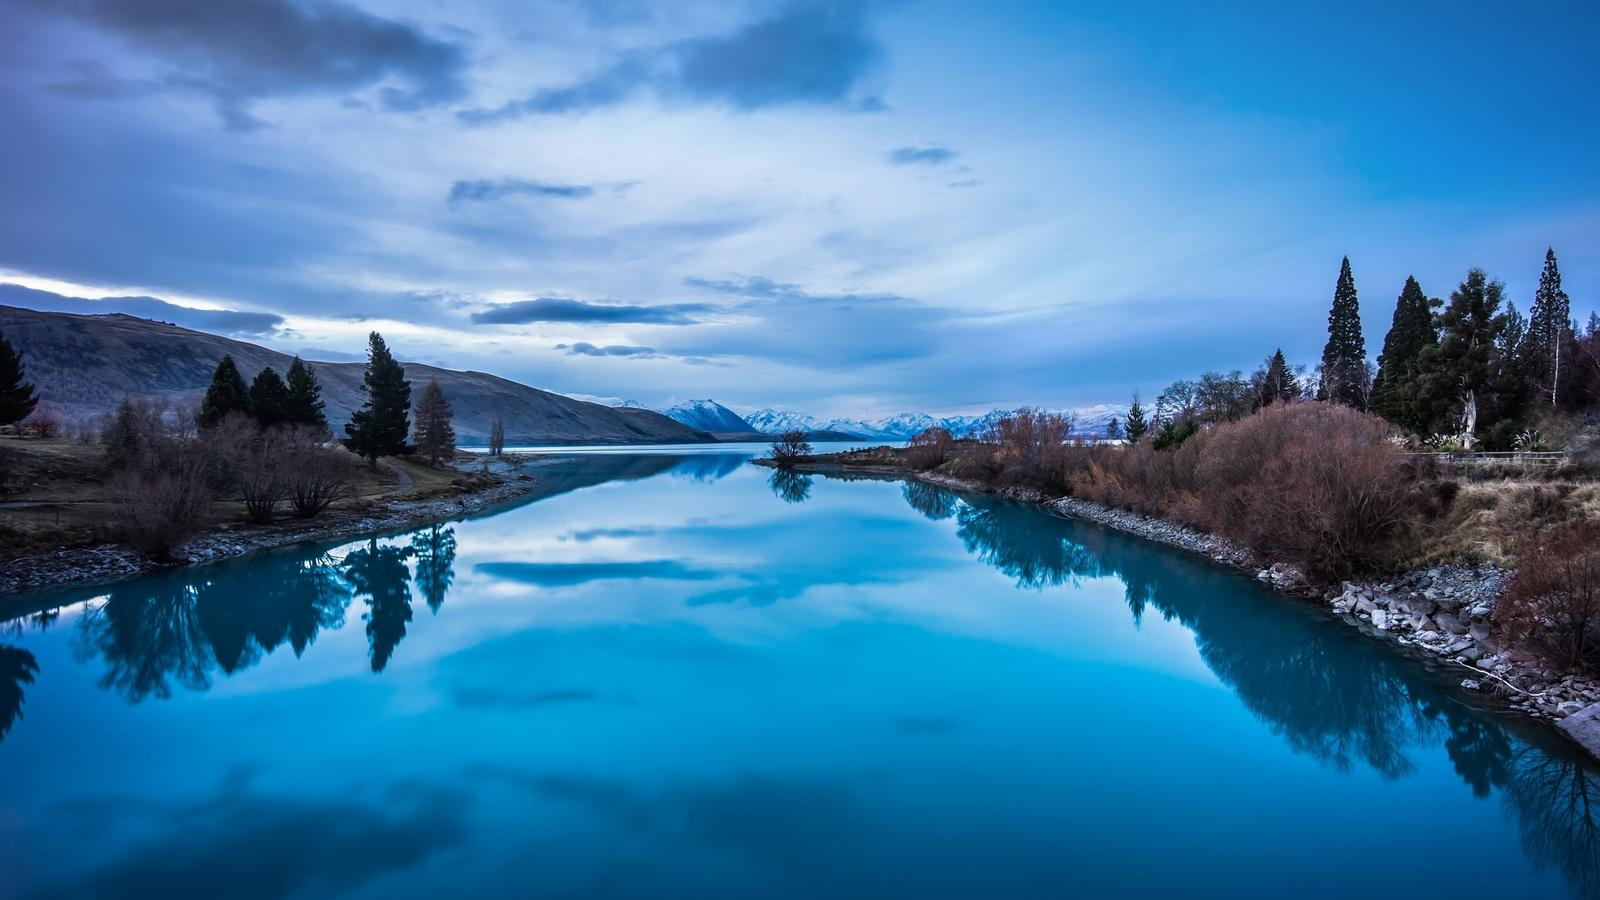
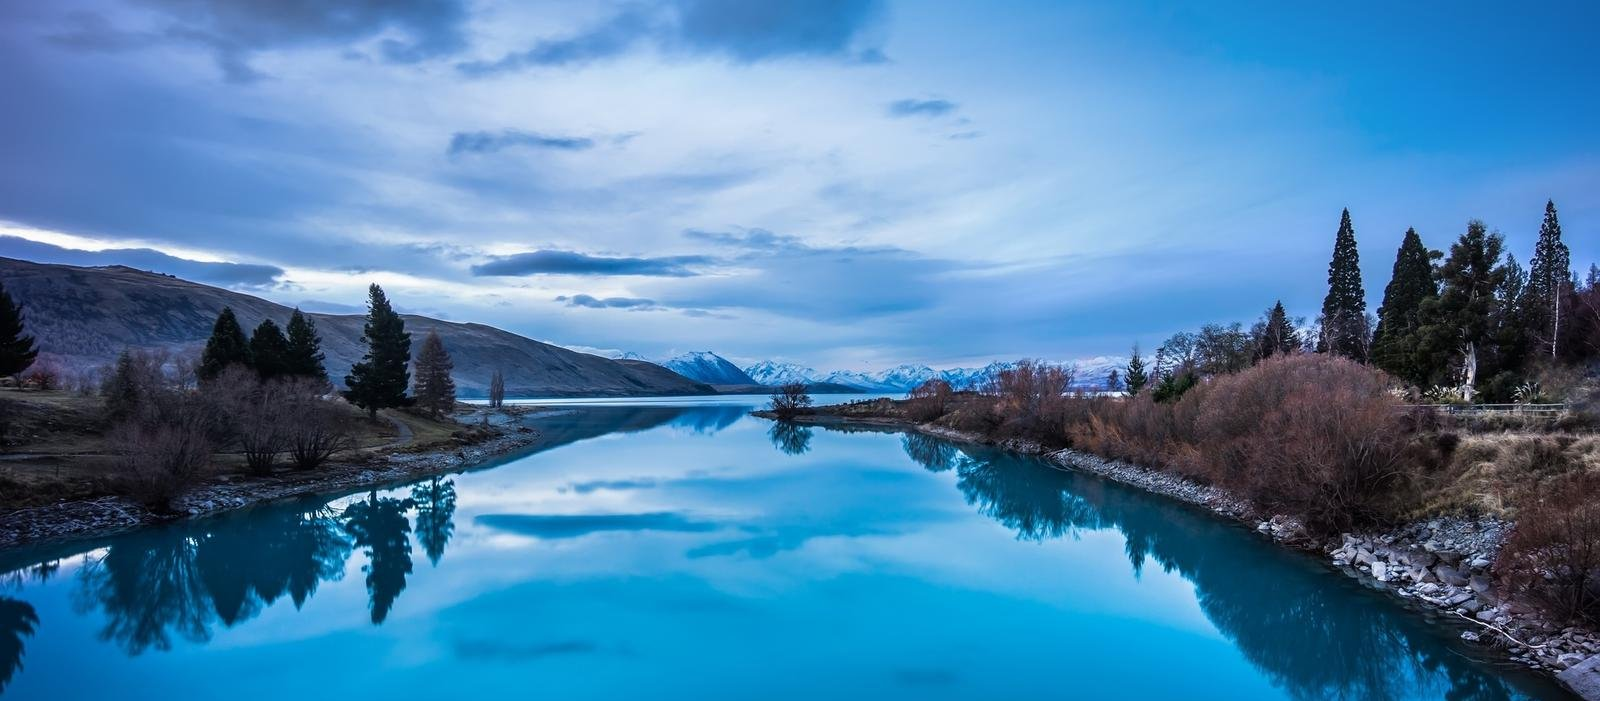
margin correction and crop correction commit

diff --git a/index.html b/index.html
@@ -301,7 +301,7 @@
             </p>
             <button class="btn btn-outline-info">Read More</button>
           </div>
-          <div class="col-lg-3 col-md-6 mt-sm-4">
+          <div class="col-lg-3 col-md-6 mt-sm-4 mt-md-0">
             <i class="p-3 mb-3 fa-2x rounded-circle fa-solid fa-pen"></i>
             <h3 class="text-uppercase pb-2 fw-bold">Web Design</h3>
             <p class="text-muted text-info">
@@ -312,7 +312,7 @@
             </p>
             <button class="btn btn-outline-info">Read More</button>
           </div>
-          <div class="col-lg-3 col-md-6 mt-sm-4">
+          <div class="col-lg-3 col-md-6 mt-sm-4 mt-md-0">
             <i class="p-3 mb-3 fa-2x rounded-circle fa-solid fa-display"></i>
             <h3 class="text-uppercase pb-2 fw-bold">Web Design</h3>
             <p class="text-muted text-success">
@@ -323,7 +323,7 @@
             </p>
             <button class="btn btn-outline-info">Read More</button>
           </div>
-          <div class="col-lg-3 col-md-6 mt-sm-4">
+          <div class="col-lg-3 col-md-6 mt-sm-4 mt-md-0">
             <i class="p-3 mb-3 fa-2x rounded-circle fa-solid fa-car"></i>
             <h3 class="text-uppercase pb-2 fw-bold">Web Design</h3>
             <p class="text-muted text-success">

diff --git a/css/style.scss b/css/style.scss
@@ -35,31 +35,39 @@
 
   .carousel-caption {
     background-color: #9ecdff65;
+    position: absolute;
+    right: 18%;
+    bottom: 1.25rem;
+    left: 18%;
+    padding-bottom: 10px;
+    padding-top: 6px;
+    color: #fff;
+    text-align: center;
     > .h5,
     h5 {
-      font-size: 2.25rem;
+      font-size: 35px;
       font-variant: small-caps;
     }
     > p {
-      font-size: 1.25rem;
+      font-size: 18px;
     }
   }
   .carousel-indicators [data-bs-target] {
-    width: 10px;
-    height: 10px;
+    width: 8px;
+    height: 8px;
     border-radius: 50%;
     margin: 0px 5px;
   }
   .carousel-control-next-icon,
   .carousel-control-prev-icon {
     display: inline-block;
-    width: 3rem;
-    height: 3rem;
+    width: 2rem;
+    height: 2rem;
     background-repeat: no-repeat;
     background-position: 50%;
-    background-size: 70% 100%;
+    background-size: 80% 100%;
     border-radius: 50%;
-    background-color: #9ecdff65;
+    background-color: rgba(158, 205, 255, 0.3960784314);
   }
   .fa-solid,
   .fas {

diff --git a/css/style.css b/css/style.css
@@ -24,29 +24,37 @@
 }
 .container .carousel-caption {
   background-color: rgba(158, 205, 255, 0.3960784314);
+  position: absolute;
+  right: 18%;
+  bottom: 1.25rem;
+  left: 18%;
+  padding-bottom: 10px;
+  padding-top: 6px;
+  color: #fff;
+  text-align: center;
 }
 .container .carousel-caption > .h5,
 .container .carousel-caption h5 {
-  font-size: 2.25rem;
+  font-size: 35px;
   font-variant: small-caps;
 }
 .container .carousel-caption > p {
-  font-size: 1.25rem;
+  font-size: 18px;
 }
 .container .carousel-indicators [data-bs-target] {
-  width: 10px;
-  height: 10px;
+  width: 8px;
+  height: 8px;
   border-radius: 50%;
   margin: 0px 5px;
 }
 .container .carousel-control-next-icon,
 .container .carousel-control-prev-icon {
   display: inline-block;
-  width: 3rem;
-  height: 3rem;
+  width: 2rem;
+  height: 2rem;
   background-repeat: no-repeat;
   background-position: 50%;
-  background-size: 70% 100%;
+  background-size: 80% 100%;
   border-radius: 50%;
   background-color: rgba(158, 205, 255, 0.3960784314);
 }
